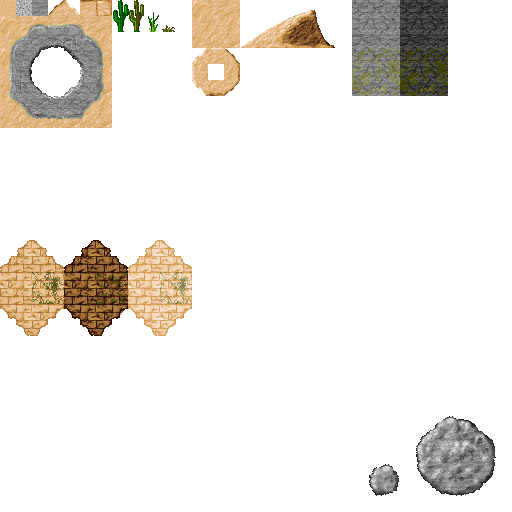
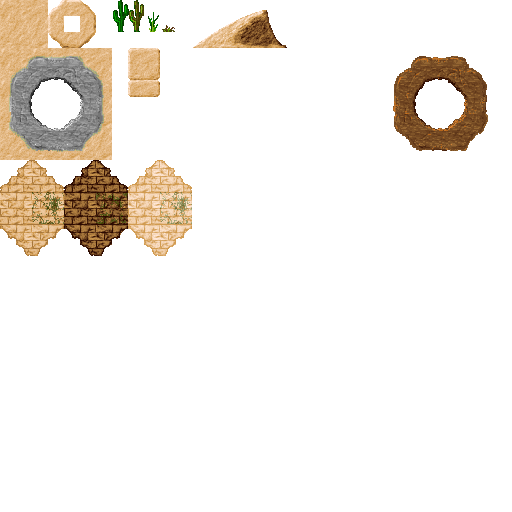
Added new map, barbarian_village Tilesets updated Changed new map to the config class

diff --git a/SoV/src/sov/GameConfiguration.java b/SoV/src/sov/GameConfiguration.java
@@ -14,7 +14,7 @@ public class GameConfiguration {
 	public boolean devMode = false;
 	
 	// world
-	public String firstMap = "desert_test.tmx";
+	public String firstMap = "barbarian_village.tmx";
 	// How quickly does the camera follow the player?
 	public float interpolationAmount = 1.00f;
 	
